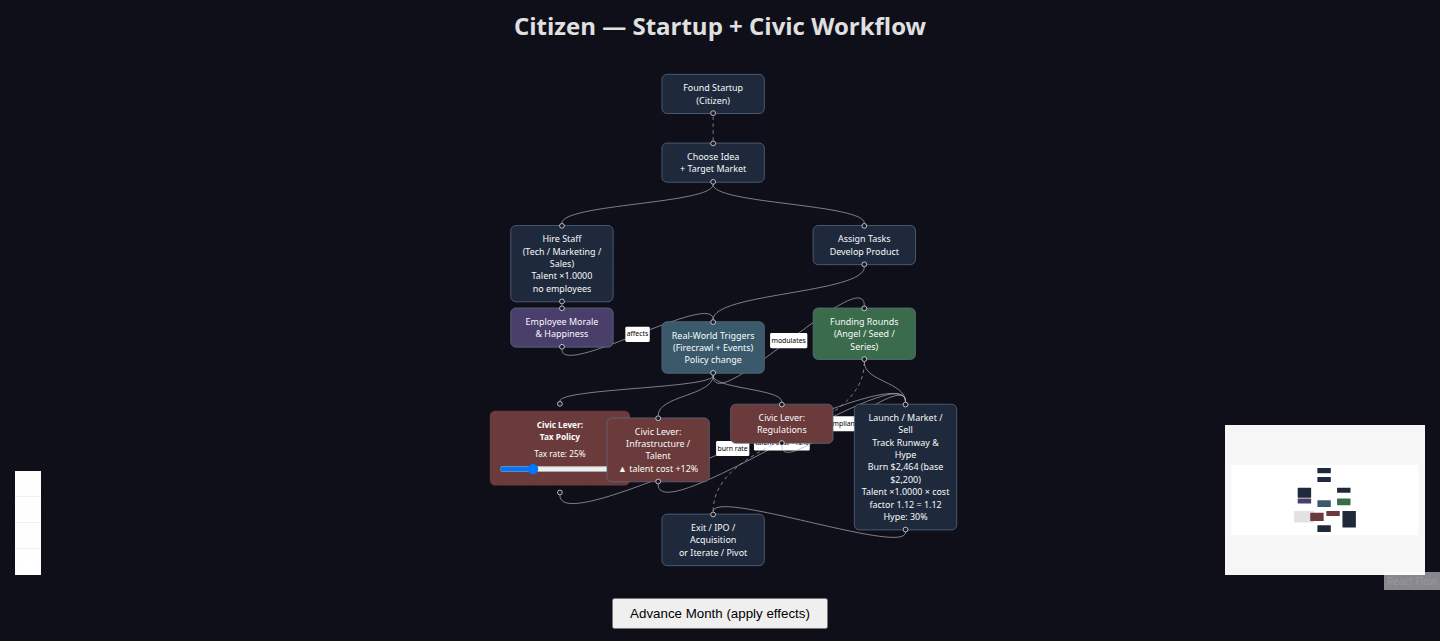
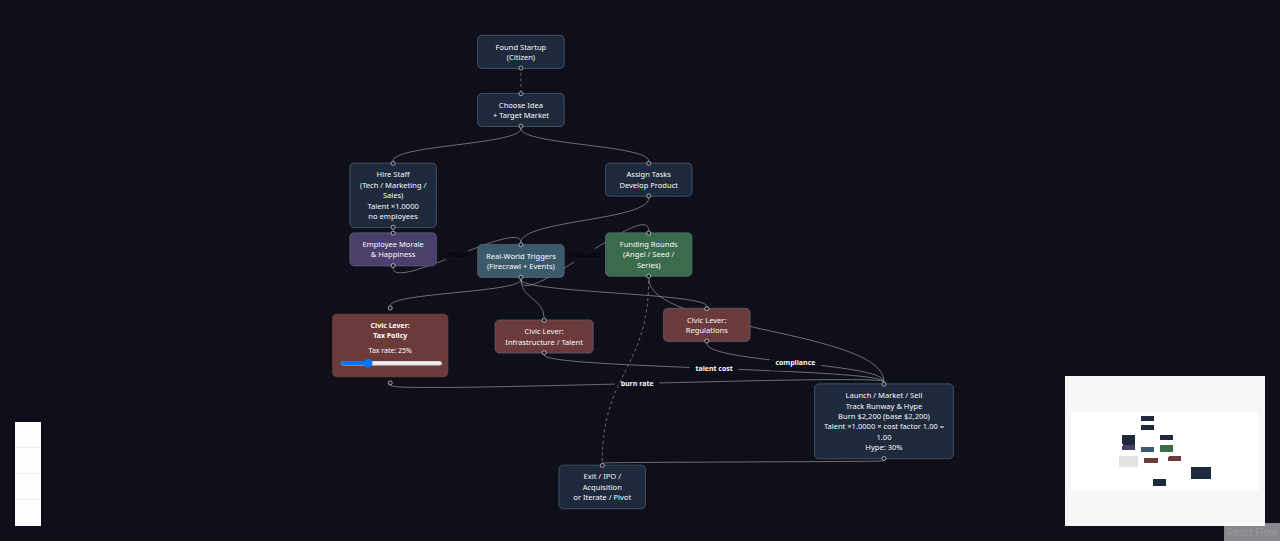
fix(ui): space civic-lever band so edge labels stay readable
Widen Tax / Infra / Regs / Launch spacing, drop Launch slightly so
burn rate / talent cost / compliance midpoints clear neighbors, and
refresh the README diagram shot plus a Playwright smoke for #5.

diff --git a/src/WorkflowDiagram.jsx b/src/WorkflowDiagram.jsx
@@ -138,13 +138,37 @@ export default function WorkflowDiagram({ state, setState, onTick }) {
         value: state.taxRate,
         onChange: (v) => setState((s) => ({ ...s, taxRate: v }))
       },
-      position: { x: 40, y: 480 }
+      // Civic band spaced horizontally; Launch sits slightly lower so edge
+      // midpoints (burn rate / talent cost / compliance) clear neighbors.
+      position: { x: 40, y: 470 }
     },
-    { id: 'civic-infra', data: { label: 'Civic Lever:\nInfrastructure / Talent' }, position: { x: 220, y: 500 }, style: STYLED_NODE.civic },
-    { id: 'civic-reg', data: { label: 'Civic Lever:\nRegulations' }, position: { x: 400, y: 480 }, style: STYLED_NODE.civic },
-    { id: '7', data: { label: 'Launch / Market / Sell\nTrack Runway & Hype' }, position: { x: 580, y: 480 }, style: DEFAULT_NODE_STYLE },
-    { id: '8', type: 'output', data: { label: 'Exit / IPO / Acquisition\nor Iterate / Pivot' }, position: { x: 300, y: 640 }, style: DEFAULT_NODE_STYLE },
+    {
+      id: 'civic-infra',
+      data: { label: 'Civic Lever:\nInfrastructure / Talent' },
+      position: { x: 330, y: 490 },
+      style: { ...STYLED_NODE.civic, minWidth: 170 },
+    },
+    {
+      id: 'civic-reg',
+      data: { label: 'Civic Lever:\nRegulations' },
+      position: { x: 620, y: 470 },
+      style: { ...STYLED_NODE.civic, minWidth: 140 },
+    },
+    {
+      id: '7',
+      data: { label: 'Launch / Market / Sell\nTrack Runway & Hype' },
+      position: { x: 880, y: 600 },
+      style: { ...DEFAULT_NODE_STYLE, minWidth: 240 },
+    },
+    { id: '8', type: 'output', data: { label: 'Exit / IPO / Acquisition\nor Iterate / Pivot' }, position: { x: 440, y: 740 }, style: DEFAULT_NODE_STYLE },
   ];
+
+  const civicEdgeLabel = {
+    labelStyle: { fontSize: 12, fill: '#f8fafc', fontWeight: 600 },
+    labelBgStyle: { fill: '#0f0f1a', fillOpacity: 0.95 },
+    labelBgPadding: [10, 5],
+    labelBgBorderRadius: 4,
+  };
 
   const initialEdges = [
     { id: 'e1-2', source: '1', target: '2', animated: true },
@@ -158,9 +182,9 @@ export default function WorkflowDiagram({ state, setState, onTick }) {
     { id: 'e5-civic-infra', source: '5', target: 'civic-infra' },
     { id: 'e5-civic-reg', source: '5', target: 'civic-reg' },
     { id: 'efunding-7', source: 'funding', target: '7' },
-    { id: 'etax-7', source: 'civic-tax', target: '7', label: 'burn rate' },
-    { id: 'einfra-7', source: 'civic-infra', target: '7', label: 'talent cost' },
-    { id: 'ereg-7', source: 'civic-reg', target: '7', label: 'compliance' },
+    { id: 'etax-7', source: 'civic-tax', target: '7', label: 'burn rate', ...civicEdgeLabel },
+    { id: 'einfra-7', source: 'civic-infra', target: '7', label: 'talent cost', ...civicEdgeLabel },
+    { id: 'ereg-7', source: 'civic-reg', target: '7', label: 'compliance', ...civicEdgeLabel },
     { id: 'e7-8', source: '7', target: '8' },
     { id: 'efunding-8', source: 'funding', target: '8', animated: true },
   ];
@@ -207,6 +231,8 @@ export default function WorkflowDiagram({ state, setState, onTick }) {
           onConnect={onConnect}
           nodeTypes={nodeTypes}
           fitView
+          fitViewOptions={{ padding: 0.14, maxZoom: 1.25 }}
+          minZoom={0.45}
         >
           <Background color="#222" gap={16} />
           <Controls />

diff --git a/e2e/ux-smokes.spec.js b/e2e/ux-smokes.spec.js
@@ -57,6 +57,61 @@ test('Advance Month grows cash history on the metrics chart', async ({ page }) =
   expect(pointsAfter).toBeGreaterThanOrEqual(2);
 });
 
+test('civic band labels and edge labels are fully readable at default fitView', async ({ page }) => {
+  await page.setViewportSize({ width: 1280, height: 900 });
+  await page.goto('/');
+  await expect(page.locator('[data-id="civic-tax"]')).toBeVisible();
+  await expect(page.locator('#civic-tax-rate')).toBeEnabled();
+
+  await expect(page.locator('[data-id="civic-tax"]')).toContainText('Tax Policy');
+  await expect(page.locator('[data-id="civic-infra"]')).toContainText('Infrastructure');
+  await expect(page.locator('[data-id="civic-reg"]')).toContainText('Regulations');
+  await expect(page.locator('[data-id="7"]')).toContainText('Launch');
+
+  const edgeLabels = await page.locator('.react-flow__edge-text').allTextContents();
+  const joined = edgeLabels.map((t) => t.trim()).join(' | ');
+  expect(joined, joined).toMatch(/burn rate/);
+  expect(joined, joined).toMatch(/talent cost/);
+  expect(joined, joined).toMatch(/compliance/);
+  expect(joined, joined).not.toMatch(/complian\.\.\.|complian…|talent cos\.\.\./i);
+
+  const coverage = await page.evaluate(() => {
+    const bandIds = ['civic-tax', 'civic-infra', 'civic-reg', '7'];
+    const nodes = bandIds.map((id) => {
+      const el = document.querySelector(`[data-id="${id}"]`);
+      const r = el.getBoundingClientRect();
+      return { id, left: r.left, right: r.right, top: r.top, bottom: r.bottom };
+    });
+    const overlaps = [];
+    for (let i = 0; i < nodes.length; i += 1) {
+      for (let j = i + 1; j < nodes.length; j += 1) {
+        const a = nodes[i];
+        const b = nodes[j];
+        const overlapX = !(a.right <= b.left || b.right <= a.left);
+        const overlapY = !(a.bottom <= b.top || b.bottom <= a.top);
+        if (overlapX && overlapY) overlaps.push(`${a.id}/${b.id}`);
+      }
+    }
+    const civicLabels = ['burn rate', 'talent cost', 'compliance'];
+    const covered = [...document.querySelectorAll('.react-flow__edge-text')]
+      .map((el) => {
+        const text = (el.textContent || '').trim();
+        if (!civicLabels.includes(text)) return null;
+        const r = el.getBoundingClientRect();
+        const cx = r.left + r.width / 2;
+        const cy = r.top + r.height / 2;
+        const hit = nodes.find(
+          (n) => cx >= n.left && cx <= n.right && cy >= n.top && cy <= n.bottom
+        );
+        return hit ? `${text}@${hit.id}` : null;
+      })
+      .filter(Boolean);
+    return { overlaps, covered };
+  });
+  expect(coverage.overlaps, JSON.stringify(coverage)).toEqual([]);
+  expect(coverage.covered, JSON.stringify(coverage)).toEqual([]);
+});
+
 test('default React Flow nodes have readable contrast and Advance Month does not overlap data-source', async ({
   page,
 }) => {

diff --git a/src/index.css b/src/index.css
@@ -47,6 +47,29 @@ body {
   border: 1px solid #64748b;
 }
 
+/* Keep civic-band edge labels fully readable (no mid-word clip at fitView). */
+.react-flow__edge-text {
+  font-size: 11px;
+}
+.react-flow__edge-textbg {
+  fill: #0f0f1a;
+  fill-opacity: 0.92;
+}
+.react-flow__edgelabel-renderer {
+  z-index: 5;
+  pointer-events: none;
+}
+.react-flow__edge-label {
+  max-width: none;
+  white-space: nowrap;
+  overflow: visible;
+  font-size: 11px;
+  color: #f8fafc;
+  background: rgba(15, 15, 26, 0.92);
+  padding: 2px 6px;
+  border-radius: 4px;
+}
+
 button:focus-visible {
   outline: 3px solid #fde68a;
   outline-offset: 2px;

diff --git a/src/nodes/CivicLeverNode.jsx b/src/nodes/CivicLeverNode.jsx
@@ -8,6 +8,8 @@ export default function CivicLeverNode({ data }) {
       color: 'white',
       borderRadius: 8,
       minWidth: 180,
+      width: 200,
+      boxSizing: 'border-box',
       fontSize: 12
     }}>
       <Handle type="target" position={Position.Top} />
